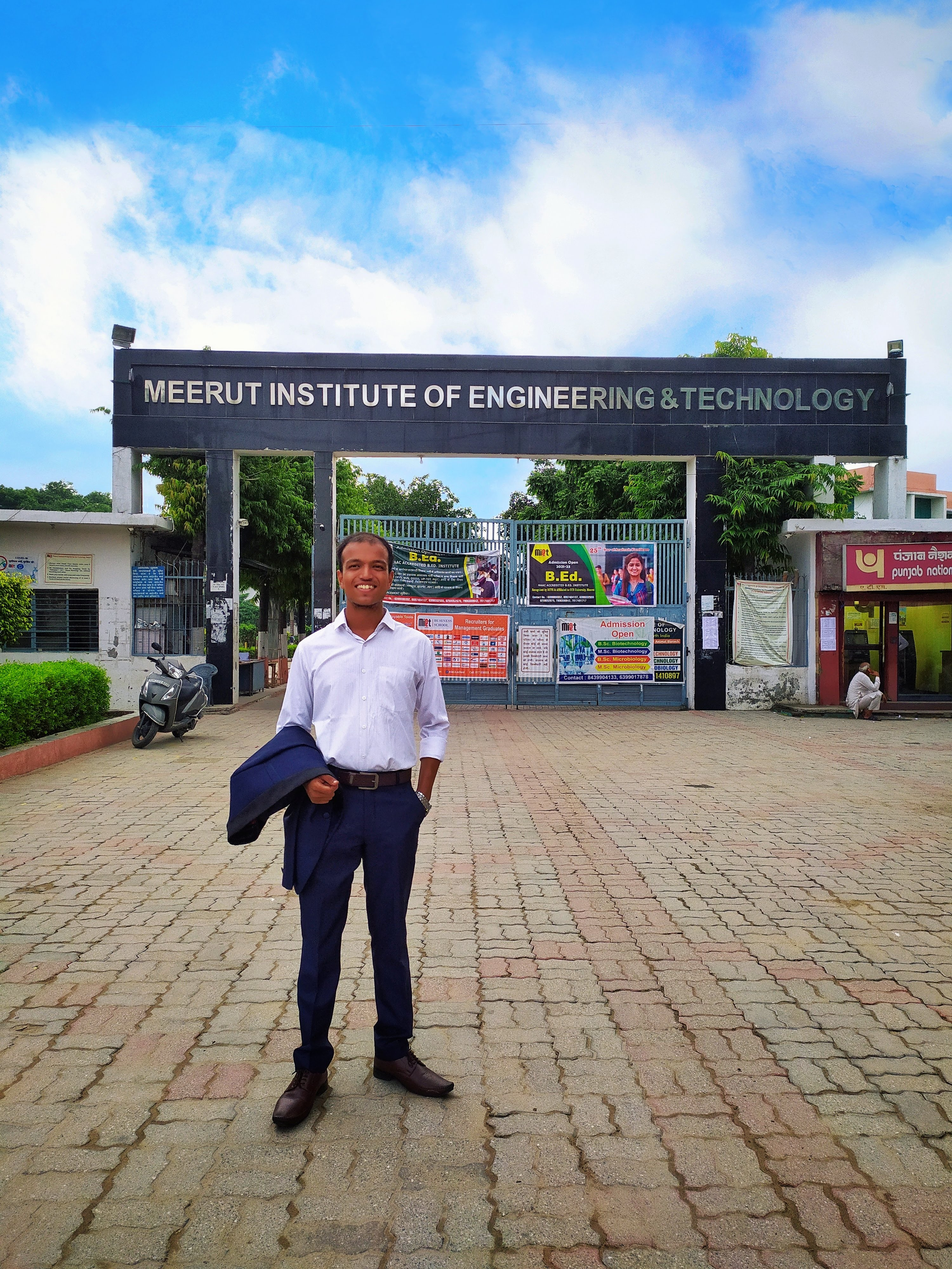
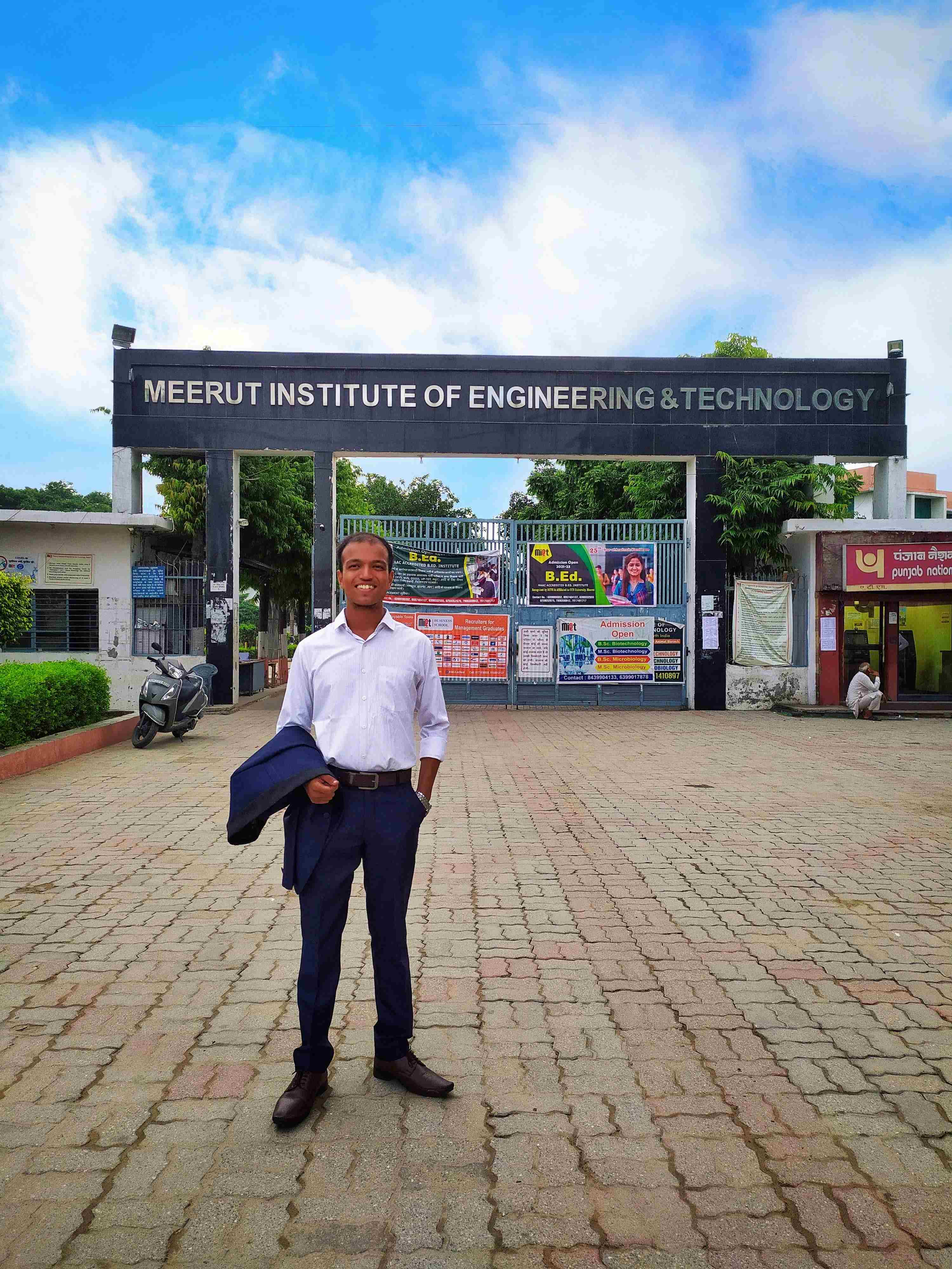
photo size reduced and toggle btn work init

diff --git a/index.html b/index.html
@@ -15,12 +15,13 @@
     <script src="https://kit.fontawesome.com/5f84977079.js" crossorigin="anonymous"></script>
     <script src="Scripts/navbar-scroll.js"></script>
     <script src="Scripts/section-2-about-us.js"></script>
+    <script src="Scripts/toggle-mode.js"></script>
     <script src="Scripts/section-2-skills.js"></script>
     <script src="Scripts/section-3-projects.js"></script>
     <title>Rahul Singh Mera Naam</title>
 </head>
 
-<body>
+<body id="body">
     <header>
         <div class="navbar"> <!--Navigation starts-->
             <div class="nav">
@@ -36,7 +37,7 @@
         <section class="section-1"> <!--containes my name and photo-->
             <div class="section-1-container">
                 <div class="section-1-container-subcontainer-1">
-                    <img src="photos/section photo.png" alt="">
+                    <img src="photos/section photo.jpeg" alt="">
                 </div>
                 <div class="section-1-container-subcontainer-2">
                     <span>My Name is</span>
@@ -49,14 +50,14 @@
                 <div class="section-2-container-subcontainer-1"> <!--about me carousel-->
                     <button class="section-2-container-subcontainer-1-prev-btn" onclick="prevSlide()"></button>
                     <div class="section-2-container-subcontainer-1-slide active-slide-about-us">
-                        <img src="photos/1.png" alt="">
+                        <img src="photos/1.jpeg" alt="">
                         <div class="data-about-us">
                             <p class="upper-p-about-us">What is My Story?</p>
                             <p class="lower-p-about-us">Everyone has one,<br> here is <b>mine</b> :)</p>
                         </div>
                     </div>
                     <div class="section-2-container-subcontainer-1-slide">
-                        <img src="photos/3.jpg" alt="">
+                        <img src="photos/3.jpeg" alt="">
                         <div class="data-about-us">
                             <p class="upper-p-about-us">Just like my older brother</p>
                             <p class="lower-p-about-us">I studied at <b>St. MontFort Sr. Secondary School,
@@ -87,7 +88,7 @@
                         </div>
                         <div class="toggle-button">
                             <p><b>Switch light</b></p>
-                            <button>ON</button>
+                            <button onclick="toggleMode()">ON</button>
                         </div>
                     </div>
                     <div class="section-2-container-subcontainer-2-lower"> <!--my skills-->
@@ -123,7 +124,7 @@
             <div class="section-3-container">
                 <div class="section-3-container-subcontainer-1">
                     <div class="projects-list active-project">
-                        <img src="photos/wonders.jpg" alt="">
+                        <img src="photos/wonders.jpeg" alt="">
                         <h1>My Wonders</h1>
                     </div>
                     <div class="projects-list">

diff --git a/css/index_dark.css b/css/index_dark.css
@@ -5,8 +5,8 @@
     padding: 0;
 }
 
-body {
-    background-color: #17181C;
+#body {
+    background: #17181C;
     font-family: 'Inter', sans-serif;
 }
 

diff --git a/Scripts/toggle-mode.js b/Scripts/toggle-mode.js
@@ -1,0 +1,5 @@
+let bodyBackground;
+
+function toggleMode(){
+    alert("hi!");
+}
